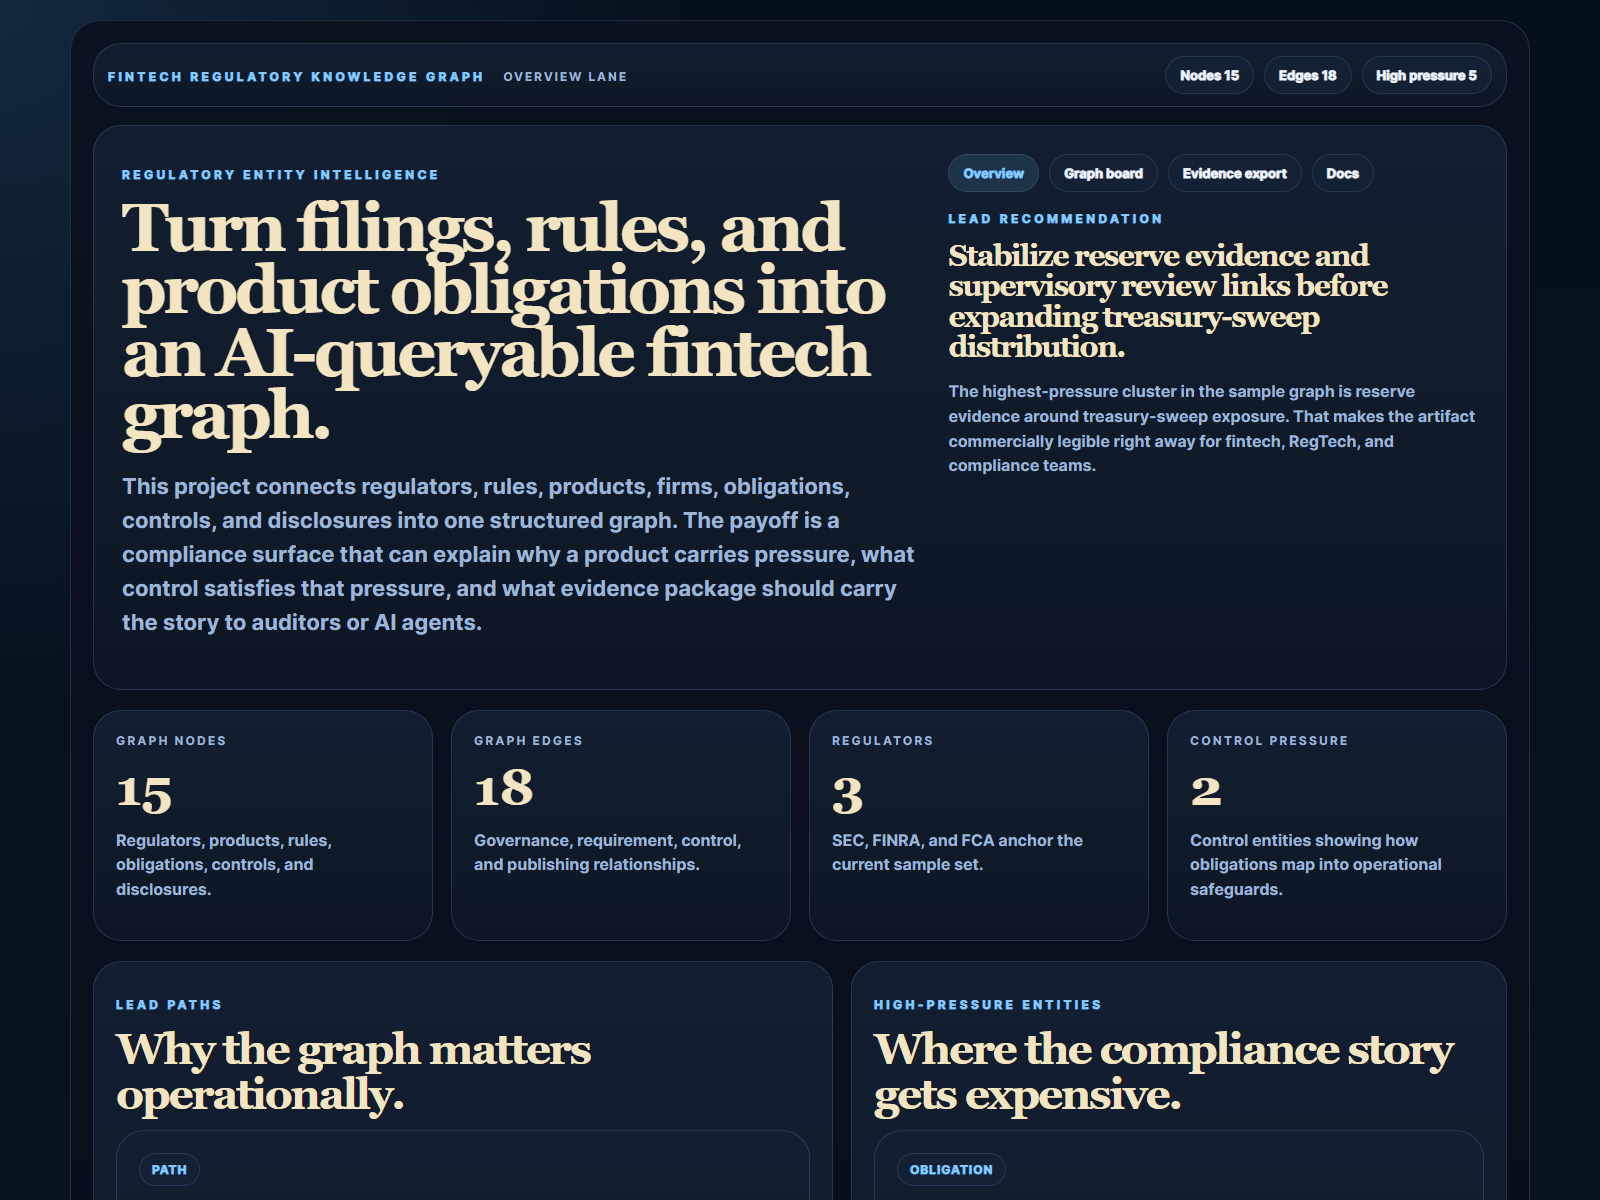
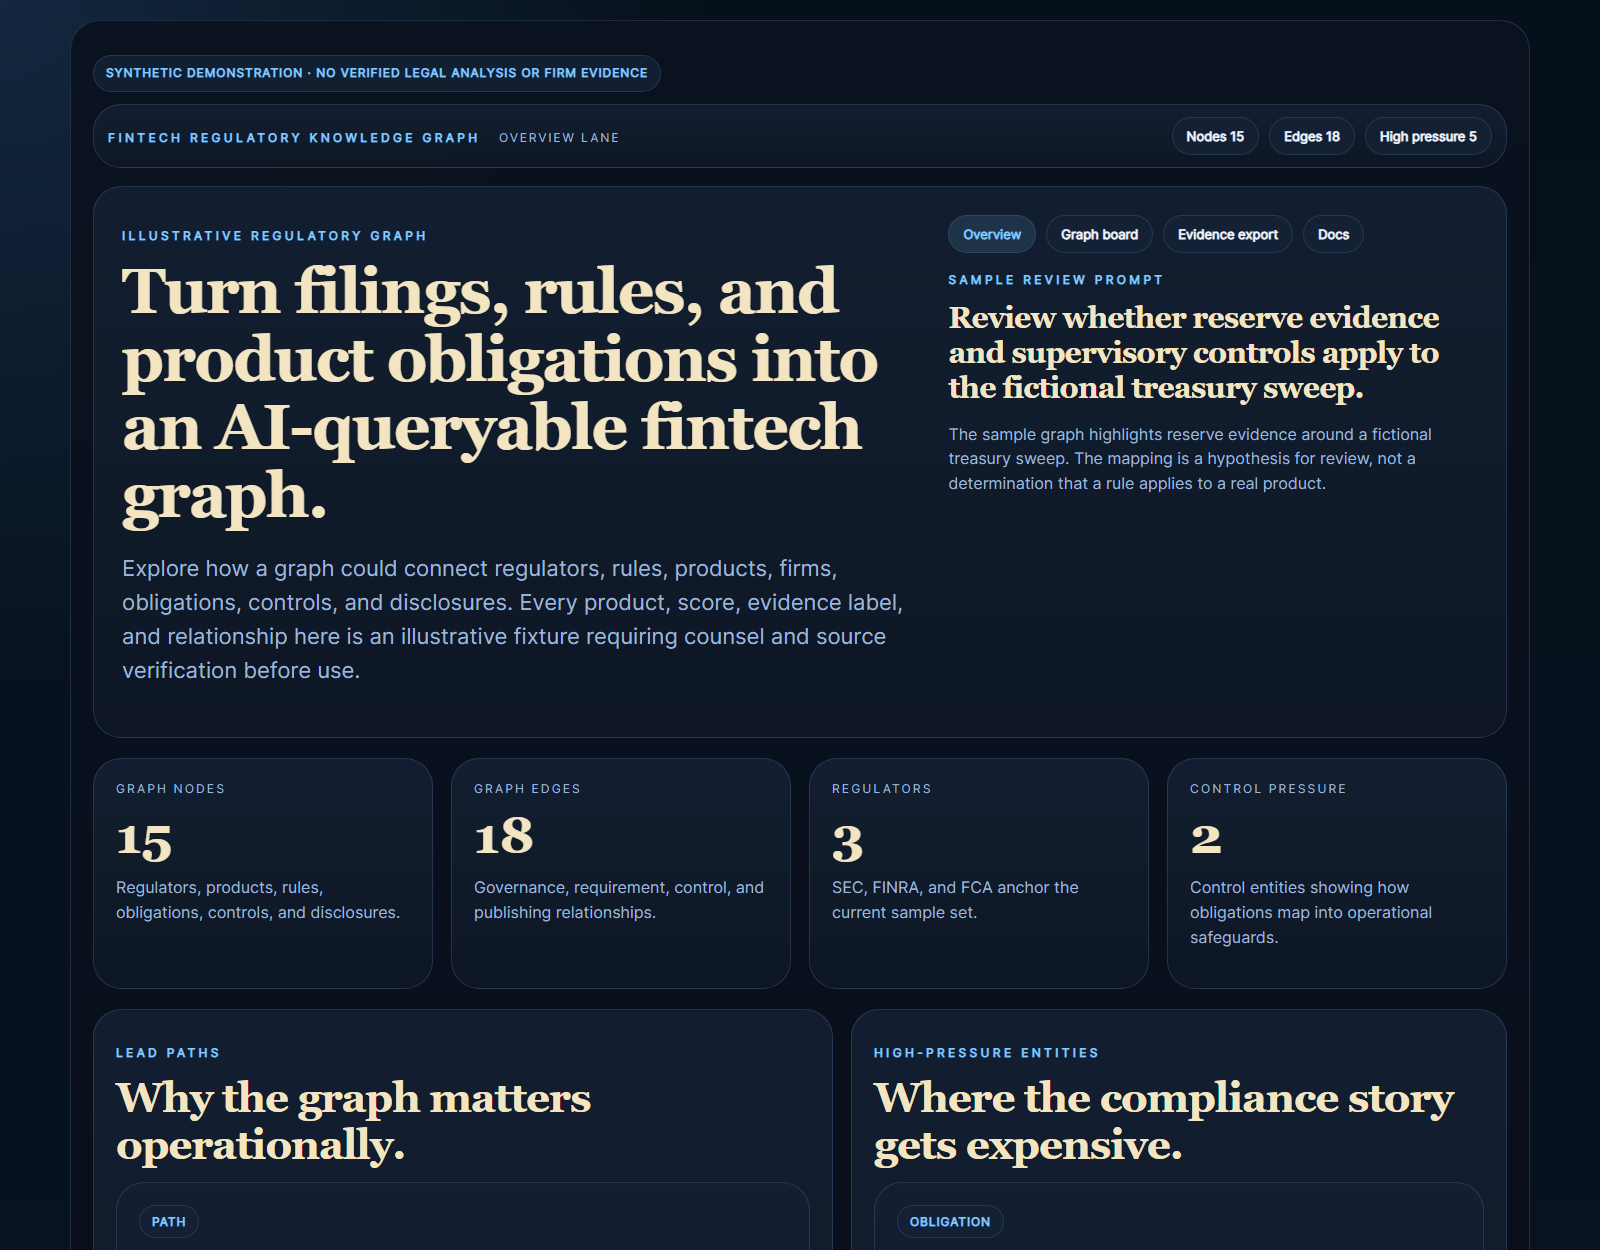
Review synthetic graph claims and patch dependency advisories

diff --git a/app/main.py b/app/main.py
@@ -2,6 +2,7 @@ from __future__ import annotations
 
 import json
 import os
+from html import escape
 
 import uvicorn
 from fastapi import FastAPI, HTTPException, Query
@@ -93,6 +94,7 @@ def shell(title: str, section: str, body: str) -> str:
         color:var(--accent);
         background:rgba(134,202,255,.12);
       }}
+      .nav a:focus-visible {{ outline:3px solid var(--warn); outline-offset:3px; }}
       .hero {{
         display:grid;
         grid-template-columns:1.45fr .95fr;
@@ -113,12 +115,13 @@ def shell(title: str, section: str, body: str) -> str:
       h1,h2,h3 {{
         margin:12px 0 14px;
         font-family:Georgia,serif;
-        letter-spacing:-.05em;
+        letter-spacing:-.025em;
         color:var(--gold);
       }}
-      h1 {{ font-size:68px; line-height:.92; }}
-      h2 {{ font-size:44px; line-height:1.02; }}
-      h3 {{ font-size:30px; line-height:1.02; }}
+      h1 {{ font-size:clamp(40px,4.1vw,64px); line-height:1.06; }}
+      h2 {{ font-size:clamp(30px,3vw,42px); line-height:1.12; }}
+      h3 {{ font-size:clamp(24px,2vw,30px); line-height:1.16; }}
+      .hero-side h3 {{ overflow-wrap:break-word; }}
       p,li {{ color:var(--muted); line-height:1.55; }}
       .lede {{ font-size:22px; max-width:900px; }}
       .metrics,.grid-2,.grid-3 {{
@@ -128,6 +131,7 @@ def shell(title: str, section: str, body: str) -> str:
       .metrics {{ grid-template-columns:repeat(4,1fr); margin-bottom:20px; }}
       .grid-2 {{ grid-template-columns:1.06fr .94fr; }}
       .grid-3 {{ grid-template-columns:repeat(3,1fr); }}
+      .grid-2 > *, .grid-3 > * {{ min-width:0; }}
       .metric,.card,.panel,.export-box {{ padding:22px; }}
       .metric strong {{
         display:block;
@@ -185,12 +189,14 @@ def shell(title: str, section: str, body: str) -> str:
       table {{
         width:100%;
         border-collapse:collapse;
+        table-layout:fixed;
       }}
       th,td {{
         text-align:left;
         padding:14px 12px;
         border-bottom:1px solid rgba(104,142,199,.12);
         vertical-align:top;
+        overflow-wrap:anywhere;
       }}
       th {{
         color:var(--accent);
@@ -204,12 +210,14 @@ def shell(title: str, section: str, body: str) -> str:
       @media (max-width:780px) {{
         main {{ width:calc(100% - 20px); padding:14px; }}
         .hero,.grid-2,.grid-3,.metrics {{ grid-template-columns:1fr; }}
-        h1 {{ font-size:48px; }}
+        h1 {{ font-size:clamp(32px,9vw,48px); }}
+        th,td {{ padding:10px 6px; }}
       }}
     </style>
   </head>
   <body>
     <main>
+      <p class="tag" role="note">Synthetic demonstration · no verified legal analysis or firm evidence</p>
       <section class="topbar">
         <div>
           <span class="brand">FINTECH REGULATORY KNOWLEDGE GRAPH</span>
@@ -229,7 +237,7 @@ def shell(title: str, section: str, body: str) -> str:
 
 app = FastAPI(
     title="Fintech Regulatory Knowledge Graph",
-    description="Local-first graph connecting regulators, rules, products, obligations, controls, and disclosures.",
+    description="Synthetic local demonstration of graph relationships. No rule applicability, source evidence, or legal conclusion is verified.",
     version="1.0.0"
 )
 
@@ -245,20 +253,20 @@ def overview() -> str:
         f"""
         <section class="hero">
           <article>
-            <p class="eyebrow">Regulatory entity intelligence</p>
+            <p class="eyebrow">Illustrative regulatory graph</p>
             <h1>Turn filings, rules, and product obligations into an AI-queryable fintech graph.</h1>
-            <p class="lede">This project connects regulators, rules, products, firms, obligations, controls, and disclosures into one structured graph. The payoff is a compliance surface that can explain why a product carries pressure, what control satisfies that pressure, and what evidence package should carry the story to auditors or AI agents.</p>
+            <p class="lede">Explore how a graph could connect regulators, rules, products, firms, obligations, controls, and disclosures. Every product, score, evidence label, and relationship here is an illustrative fixture requiring counsel and source verification before use.</p>
           </article>
           <article class="hero-side">
-            <div class="nav">
-              <a class="active" href="/">Overview</a>
+            <nav class="nav" aria-label="Demo pages">
+              <a class="active" aria-current="page" href="/">Overview</a>
               <a href="/graph">Graph board</a>
               <a href="/evidence">Evidence export</a>
               <a href="/docs">Docs</a>
-            </div>
-            <p class="eyebrow">Lead recommendation</p>
+            </nav>
+            <p class="eyebrow">Sample review prompt</p>
             <h3>{summary.lead_recommendation}</h3>
-            <p>The highest-pressure cluster in the sample graph is reserve evidence around treasury-sweep exposure. That makes the artifact commercially legible right away for fintech, RegTech, and compliance teams.</p>
+            <p>The sample graph highlights reserve evidence around a fictional treasury sweep. The mapping is a hypothesis for review, not a determination that a rule applies to a real product.</p>
           </article>
         </section>
         <section class="metrics">
@@ -308,18 +316,18 @@ def graph_board() -> str:
           <article>
             <p class="eyebrow">Graph board</p>
             <h1>Regulators, products, obligations, and controls all sit in one traversable decision surface.</h1>
-            <p class="lede">Instead of reading one filing or one policy at a time, this board shows how the graph clusters around practical questions: which products carry pressure, which rules explain it, and which controls or disclosures close the loop.</p>
+            <p class="lede">This board demonstrates how a candidate graph might connect products, rules, and controls. Its relationships and scores are synthetic and have not been validated against a firm's facts or current law.</p>
           </article>
           <article class="hero-side">
-            <div class="nav">
+            <nav class="nav" aria-label="Demo pages">
               <a href="/">Overview</a>
-              <a class="active" href="/graph">Graph board</a>
+              <a class="active" aria-current="page" href="/graph">Graph board</a>
               <a href="/evidence">Evidence export</a>
               <a href="/docs">Docs</a>
-            </div>
+            </nav>
             <p class="eyebrow">Cluster lens</p>
             <h3>Four clusters drive the story.</h3>
-            <p>Regulators explain jurisdiction. Products create exposure. Obligations describe what must happen. Controls and disclosures prove that the firm can answer for it.</p>
+            <p>The fixture groups regulators, products, obligations, and possible controls for review. Its edges do not establish jurisdiction, applicability, or control effectiveness.</p>
           </article>
         </section>
         <section class="grid-3">
@@ -343,25 +351,25 @@ def evidence_export() -> str:
         <section class="hero">
           <article>
             <p class="eyebrow">Evidence export</p>
-            <h1>The graph can publish machine-readable compliance context, not just pretty diagrams.</h1>
-            <p class="lede">This lane shows the same graph as a structured JSON-LD export. That makes it legible to downstream AI systems, search agents, and internal compliance tooling that needs structured entities rather than screenshots or prose alone.</p>
+            <h1>Inspect synthetic relationship paths and a JSON-LD graph export.</h1>
+            <p class="lede">This lane exports the synthetic graph as JSON-LD for schema testing. It is not a source-verified evidence package or a basis for an automated compliance answer.</p>
           </article>
           <article class="hero-side">
-            <div class="nav">
+            <nav class="nav" aria-label="Demo pages">
               <a href="/">Overview</a>
               <a href="/graph">Graph board</a>
-              <a class="active" href="/evidence">Evidence export</a>
+              <a class="active" aria-current="page" href="/evidence">Evidence export</a>
               <a href="/docs">Docs</a>
-            </div>
+            </nav>
             <p class="eyebrow">Export use case</p>
-            <h3>Answer-ready compliance context.</h3>
-            <p>Every exported node carries entity type, jurisdiction, source document, and risk pressure so agents can cite it instead of guessing what the compliance team meant.</p>
+            <h3>Schema test only.</h3>
+            <p>Exported source labels are fixture text, and risk scores are illustrative. A production graph needs source URLs, retrieval dates, reviewer approval, and applicability decisions before agents cite it.</p>
           </article>
         </section>
         <section class="grid-2">
           <article class="panel">
             <p class="eyebrow">Lead evidence chains</p>
-            <h2>Paths that auditors and AI agents can explain.</h2>
+            <h2>Sample paths to test and review.</h2>
             <table>
               <thead><tr><th>Start</th><th>End</th><th>Path</th></tr></thead>
               <tbody>
@@ -372,7 +380,7 @@ def evidence_export() -> str:
           <article class="export-box">
             <p class="eyebrow">JSON-LD sample</p>
             <h2>Structured export</h2>
-            <pre>{export_json}</pre>
+            <pre>{escape(export_json)}</pre>
           </article>
         </section>
         """

diff --git a/app/services/graph_service.py b/app/services/graph_service.py
@@ -31,7 +31,7 @@ class GraphService:
             obligation_count=len(obligations),
             control_count=len(controls),
             high_pressure_entities=[node.label for node in high_pressure],
-            lead_recommendation="Stabilize reserve evidence and supervisory review links before expanding treasury-sweep distribution."
+            lead_recommendation="Review whether reserve evidence and supervisory controls apply to the fictional treasury sweep."
         )
 
     def entity(self, entity_id: str) -> GraphNode:
@@ -94,13 +94,11 @@ class GraphService:
                     "description": node.summary,
                     "jurisdiction": node.jurisdiction,
                     "identifier": node.id,
-                    "isPartOf": node.source_document,
-                    "measurementTechnique": "Risk pressure scoring",
-                    "additionalProperty": {
-                        "@type": "PropertyValue",
-                        "name": "riskPressure",
-                        "value": node.risk_pressure
-                    }
+                    "measurementTechnique": "Illustrative developer-assigned score; not validated",
+                    "additionalProperty": [
+                        {"@type": "PropertyValue", "name": "fixtureSourceLabel", "value": node.source_document},
+                        {"@type": "PropertyValue", "name": "illustrativeRiskPressure", "value": node.risk_pressure},
+                    ],
                 }
             )
 
@@ -125,7 +123,8 @@ class GraphService:
                 },
                 "@type": "Dataset",
                 "name": "Fintech Regulatory Knowledge Graph",
-                "description": "Structured graph connecting regulators, rules, products, obligations, controls, and disclosures for AI-queryable compliance context.",
+                "description": "Synthetic demonstration graph. Relationships, source labels, and scores are not verified legal conclusions or firm evidence.",
+                "creativeWorkStatus": "synthetic demonstration",
                 "creator": {
                     "@type": "Person",
                     "name": "Miz Causevic"

diff --git a/tests/test_app.py b/tests/test_app.py
@@ -36,3 +36,12 @@ def test_jsonld_export():
     payload = response.json()
     assert payload["@type"] == "Dataset"
     assert "@graph" in payload
+    assert payload["creativeWorkStatus"] == "synthetic demonstration"
+    assert "not verified legal conclusions" in payload["description"]
+
+
+def test_ui_discloses_synthetic_status():
+    response = client.get("/")
+    assert response.status_code == 200
+    assert "Synthetic demonstration" in response.text
+    assert "no verified legal analysis" in response.text

diff --git a/README.md b/README.md
@@ -2,6 +2,8 @@
 
 Knowledge graph for fintech regulatory entities, obligations, disclosures, and AI-queryable compliance context.
 
+> **Synthetic demonstration.** The 15 nodes, 18 relationships, firm, products, source-document labels, risk scores, and review prompt are illustrative fixtures. This repo does not ingest filings, verify rule applicability, hold firm evidence, or provide legal advice. Do not use its paths or JSON-LD as a compliance determination. Production use needs current primary-source URLs, retrieval dates, jurisdiction and product applicability review, reviewer approval, and a correction path.
+
 ## Why this repo is good
 
 - It turns fintech compliance into a structured entity problem instead of a document pile.
@@ -11,14 +13,14 @@ Knowledge graph for fintech regulatory entities, obligations, disclosures, and A
 
 ## Screenshots
 
-![Overview](./screenshots/01-overview.png)
-![Graph board](./screenshots/02-graph-board.png)
-![Evidence export](./screenshots/03-evidence-export.png)
+![Synthetic graph overview captured from the local FastAPI UI](./screenshots/01-overview.png)
+![Synthetic graph board captured from the local FastAPI UI](./screenshots/02-graph-board.png)
+![Synthetic JSON-LD export captured from the local FastAPI UI](./screenshots/03-evidence-export.png)
 ![OpenAPI docs](./screenshots/04-docs.png)
 
 ## What it does
 
-- seeds a local graph of regulators, rules, firms, products, obligations, controls, and disclosures
+- seeds a synthetic local graph of regulators, rules, firms, products, obligations, controls, and disclosures
 - exposes graph summaries and entity filters through FastAPI routes
 - resolves explainable relationship paths between high-risk products and control evidence
 - exports the graph as JSON-LD for AI-queryable compliance context
@@ -61,6 +63,10 @@ py -3.11 scripts\run_demo.py
 - `GET /api/path?start=sec&end=risk-disclosure-pack`
 - `GET /api/export/jsonld`
 - `GET /api/sample`
+
+## Source starting points
+
+The rule names in the fixture can be checked against the [eCFR customer protection rule](https://www.ecfr.gov/current/title-17/chapter-II/part-240/section-240.15c3-3), [FINRA Rule 3110](https://www.finra.org/rules-guidance/rulebooks/finra-rules/3110), and [FCA Consumer Duty PRIN 2A](https://handbook.fca.org.uk/handbook/PRIN/2A/). These primary texts were accessed on 2026-09-29. Their presence here does **not** verify any fictional product-to-rule edge, control sufficiency, source-document label, or score. In particular, a fictional stablecoin treasury sweep must not be treated as an established customer-protection-rule sweep program.
 
 ## Repo anatomy
 

diff --git a/docs/architecture.md b/docs/architecture.md
@@ -2,14 +2,11 @@
 
 ## Core idea
 
-This project models fintech regulatory pressure as a graph:
+This project demonstrates a possible regulatory graph using entirely synthetic relationships:
 
-- regulators explain jurisdiction and oversight
-- rules explain why pressure exists
-- products explain where pressure is created
-- obligations explain what must happen
-- controls explain how the firm answers the pressure
-- disclosures explain how the story becomes auditable and AI-queryable
+- regulators and rules are named reference categories, not applicability decisions
+- products and firms are fictional fixtures
+- obligations, controls, and disclosures illustrate possible relationships, not verified compliance evidence
 
 ## Local-first graph
 
@@ -19,20 +16,21 @@ The graph is seeded from local Python models so the repo stays one-shot and dete
 - no live SEC or FCA scraping required
 - no credentials required
 
-That makes it much easier to run in a hiring, consulting, or portfolio context while still telling a credible RegTech story.
+This keeps the demo deterministic for portfolio and schema exploration. It cannot establish a real firm's regulatory obligations or control posture.
 
 ## API surface
 
-- `GET /api/summary` returns graph posture
+- `GET /api/summary` returns fixture counts and illustrative scores
 - `GET /api/entities` filters by node type
 - `GET /api/path` explains why two entities are connected
-- `GET /api/export/jsonld` publishes machine-readable evidence for downstream AI and search agents
+- `GET /api/export/jsonld` returns a machine-readable synthetic fixture for schema tests
 
 ## Why JSON-LD matters
 
-This repo is not only a graph exploration demo. It also publishes a structured semantic export, which makes it useful for:
+The JSON-LD export is useful for:
 
-- AI-grounded compliance Q&A
-- internal policy retrieval
-- structured evidence handoff
-- future AEO / GEO style regulatory knowledge publishing
+- testing graph serialization and retrieval interfaces
+- prototyping source-provenance fields and reviewer workflows
+- evaluating how a future source-verified graph might support search and AI retrieval
+
+Before production use, replace every fixture label and edge with a primary-source URL, retrieval date, jurisdiction and product-applicability decision, reviewer approval, and correction path. Do not feed this fixture to an agent as authoritative compliance context.
